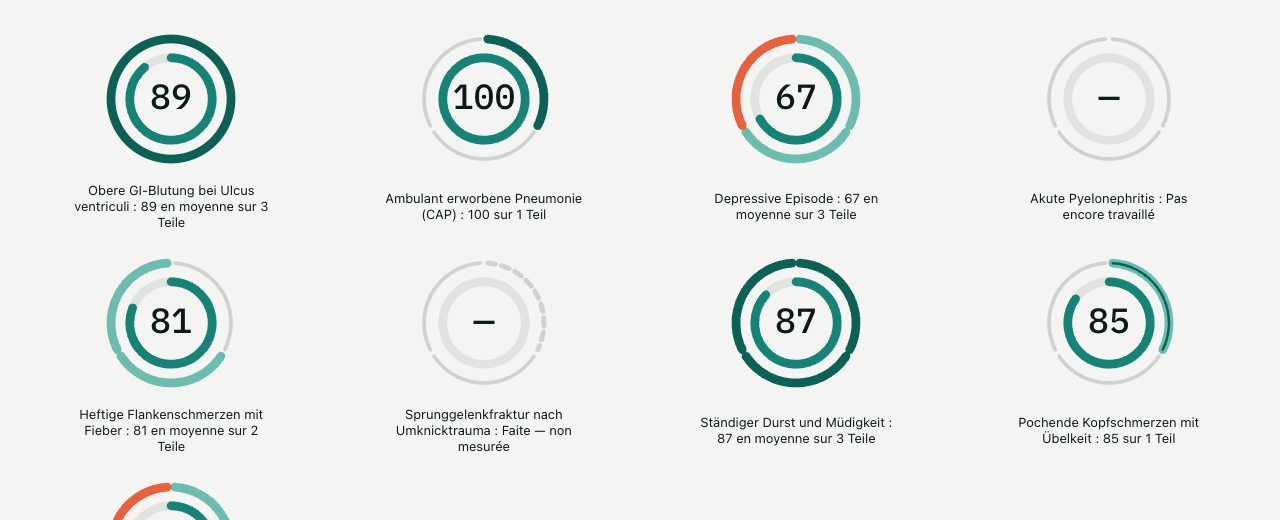
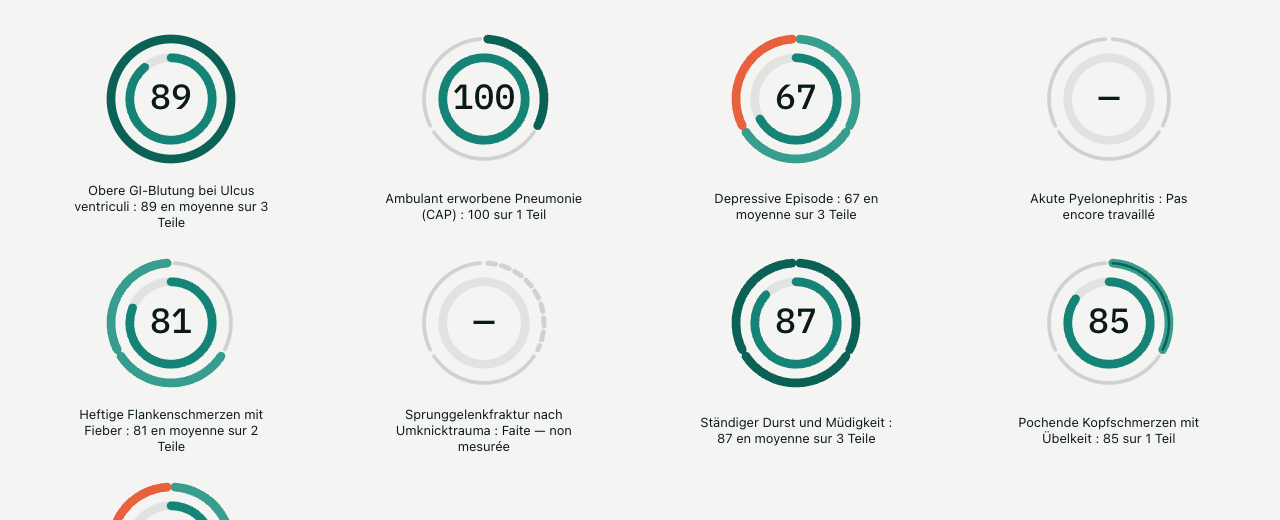
docs(s4-4): rapport mis à jour — décisions de main appliquées, planches recapturées

diff --git a/app/docs/reports/lead-s4-4.md b/app/docs/reports/lead-s4-4.md
@@ -1,12 +1,12 @@
 # S4-4 — le cadran `CaseDial` (rapport de tâche)
 
-Branche `feat/s4-4-cadran` (base `origin/main` @ `f99364e1`). Statut : **DONE_WITH_CONCERNS** (trois points à trancher, voir plus bas).
+Branche `feat/s4-4-cadran` (base `origin/main` @ `f99364e1`). Statut : **DONE_WITH_CONCERNS** (le seul point resté ouvert : voir « À trancher »). Les trois points de la première version ont été tranchés par `main` le 5 oct. et appliqués.
 
 ## Livré
 | Fichier | Rôle |
 |---|---|
-| `app/src/components/CaseDial.tsx` | la primitive : SVG (anneau intérieur = maîtrise, extérieur = trois arcs), ouverture, détail flottant, `CaseDialDetail` exporté |
-| `app/src/components/CaseDialText.ts` | tous les mots, dérivés de `CaseDialData` seul |
+| `app/src/components/visuals/CaseDial.tsx` | la primitive : SVG (anneau intérieur = maîtrise, extérieur = trois arcs), ouverture, détail flottant, `CaseDialDetail` exporté |
+| `app/src/components/visuals/CaseDialText.ts` | tous les mots, dérivés de `CaseDialData` seul |
 | `app/src/styles/index.css` (bloc `.case-dial`) | variables de couleur, mouvement sous `no-preference` seulement |
 | `app/src/features/cases/dialCarte.ts` | montage carte : « joué depuis la dernière visite », visite par compte |
 | `app/src/features/cases/CasesPage.tsx` | `CaseCard` : le cadran 64 remplace `TeilDots` (les pastilles ne doublonnent plus) |
@@ -14,7 +14,7 @@ Branche `feat/s4-4-cadran` (base `origin/main` @ `f99364e1`). Statut : **DONE_WI
 API : `<CaseDial data size={36|64|96|160} nom? vientDeSouder? action? />`. `CaseDialDetail` est exporté pour S4-3 (pré-simulation : détail déjà ouvert ; fin de partie : `vientDEtreJoue` fait dessiner l'arc, `vientDeSouder` soude l'anneau). Le lien d'action pointe `/simulation/:id/pre?teil=…` (le paramètre existe déjà).
 
 ## Décisions d'implémentation (hypothèses surfacées)
-- **Emplacement.** Le contrat §12.7 dit `components/visuals/` (règle B de `motionSafe.test.ts`), le brief dit `components/CaseDial*`. J'ai suivi le brief et me suis appliqué la règle B : aucune classe `transition-*`/`animate-*` Tailwind, le mouvement vit dans `index.css` sous `@media (prefers-reduced-motion: no-preference)` ET est coupé côté JS.
+- **Emplacement.** Le brief disait `components/CaseDial*`, le contrat §12.7 `components/visuals/`. Décision de main (5 oct.) : `components/visuals/` ; fichiers déplacés (commit dédié), la règle B de `motionSafe.test.ts` s'applique et passe (aucune classe `transition-*`/`animate-*` Tailwind ; le mouvement vit dans `index.css` sous `no-preference` ET est coupé côté JS).
 - **« À confirmer »** = `acquis` ∧ `solideDes ≤ aujourd'hui` (§13.2). Rendu : même couleur qu'« acquis », plus un **fil pétrole** de 2 unités sur l'arc (et sur la pastille du détail) ; dit « acquis, à confirmer » dans l'étiquette.
 - **Faite — non mesurée** : arc neutre en pointillé. **Soudé** : un seul cercle (pas trois arcs bout à bout, qui laisseraient des coutures) ; il ne s'écarte pas à l'ouverture.
 - **Mouvement réduit, « panneau »** : interprété comme le même détail en verre, sans fondu ni élévation, sans grossissement ni écart des arcs (`data-panneau`). Pas de tiroir latéral.
@@ -30,7 +30,7 @@ API : `<CaseDial data size={36|64|96|160} nom? vientDeSouder? action? />`. `Case
 | Commande | Sortie |
 |---|---|
 | `tsc -b --noEmit` | 0 |
-| `vitest run --dir src --maxWorkers=2` | 0 (153 fichiers, 1 422 tests) |
+| `vitest run --dir src --maxWorkers=2` | 0 (153 fichiers, 1 423 tests, rejoué après déplacement et changement de couleur) |
 | `npm run test:c6` | 0 (6 fichiers, 59 tests) |
 | `npm run build` (env du Supabase local) | 0 |
 | `check*.mjs` de la CI (15 + `checkTermRegister --require-all` + `evalDoctopus --dry`), dont `checkUiTells` | 0 |
@@ -38,6 +38,7 @@ API : `<CaseDial data size={36|64|96|160} nom? vientDeSouder? action? />`. `Case
 
 ## Vérification navigateur
 `vite preview` du build de **ce** worktree (port 4477, `index.html` servi identique à `dist/`), Supabase local de main (jamais arrêté, pas de `db:reset`), `playwright-cli` headless. Les `case_progress` de 8 cas ont été écrits dans l'IndexedDB de la session de test (vierge, entamé, couvert, solide, prêt soudé, à confirmer, acquis à date future, non mesurée), puis les `liveQuery` réveillées ; les mesures ci-dessous sont lues dans le DOM de l'app.
+- (Mesures prises avant le changement de couleur et le déplacement de fichiers ; le comportement n'a pas changé, tests et build rejoués après.)
 - Étiquettes rendues, ex. : `Heftige Flankenschmerzen… : 81 en moyenne sur 2 Teile. Anamnese : pas encore travaillé. Dokumentation : acquis, 82, hier. …`
 - Survol souris : détail ouvert 346 ms après `pointerover` (300 ms + rendu, machine à charge 15-28) ; `transform` du svg `matrix(1.14…)`, groupes d'arcs `translate(4.33, -2.5)`, `(0, 5)`, `(-4.33, -2.5)`. Se referme en quittant.
 - Texte lu dans le détail : « Solide si tu refais 80 ou plus à partir du jeudi 8 oct. » ; « Pour souder l'anneau : rejoue le cas en Autonome et avec la grille de langue remplie. » ; « Prochaine reprise : lundi 12 oct. »
@@ -50,10 +51,13 @@ API : `<CaseDial data size={36|64|96|160} nom? vientDeSouder? action? />`. `Case
 `s4-4-liste-1280-clair-ferme.png` · `…-clair-ouvert.png` · `…-sombre-ferme.png` · `…-sombre-ouvert.png` · `…-clair-ouvert-mouvement-reduit.png` · `s4-4-liste-390-clair-ferme.png` · `…-390-clair-ouvert.png` · `…-390-sombre-ferme.png` · `…-390-sombre-ouvert.png` · `s4-4-planche-etats-clair.png` · `s4-4-planche-etats-sombre.png`. Les deux planches (clones SVG agrandis des cadrans rendus, une par état) sont aussi commitées dans `app/docs/reports/`.
 Chemin complet : `/private/tmp/claude-501/-Users-MehdiBoukari-Downloads-FSP-VB-Claude-FSP/fab928bf-94b4-4f3f-b28b-69e62e6e776f/scratchpad/s4-4/`.
 
-## À trancher (DONE_WITH_CONCERNS)
-1. **Contraste de « acquis » en clair : 2,0:1 sur le papier** (`#6bbdb0` sur `#f4f5f2`), sous les 3:1 des éléments graphiques (WCAG 1.4.11). La couleur n'est jamais seule (étiquette, détail, chiffre), mais l'arc seul est faible. Je n'ai pas changé la palette validée par la direction. Proposition : `brand-400` `#379e8f` en clair (2,98 sur papier, 3,26 sur blanc, déjà la valeur sombre). Fragile : 3,09 ; solide : 6,7 ; sombre : tout ≥ 5,1. Le « vierge » (1,4:1 clair) est volontairement discret.
-2. **Chemin contractuel** : amender §12.7 (`components/CaseDial.tsx`, hors `visuals/`) ou déplacer le fichier.
-3. **Détail « en panneau » en mouvement réduit** : lecture sobre retenue (voir plus haut). À confirmer par la direction.
+## Décisions de main appliquées (5 oct.)
+1. **Contraste de « acquis » en clair** : `--cd-acquis` passe de `#6bbdb0` (2,0:1) à `#379e8f` (2,98:1 sur le papier, 3,26:1 sur blanc), par la variable ; sombre inchangé. Lu dans le DOM : `stroke: rgb(55, 158, 143)` en clair et en sombre. Test : la variable est dans `:root`, le composant ne code aucune couleur. Planches d'états recapturées (commitées). Les captures 390/1280 de la section précédente ont été prises AVANT ce changement, seul l'arc « acquis » en clair diffère.
+2. **Chemin** : `components/visuals/` (voir plus haut).
+3. **Mouvement réduit** : le détail en verre, immobile, est retenu.
+
+## À trancher
+Rien de bloquant. Le « vierge » reste volontairement discret (1,4:1 en clair), il n'est jamais un signal d'erreur.
 
 ## Non vérifié
 - **`checkFixedOverlays.mjs` n'existe pas sur `origin/main`** (fichier non suivi dans le dépôt de Mehdi). Exécuté sur une copie : **aucune violation dans mes fichiers** (le détail du cadran porte son `<Portal>`). Il signale 10 autres manquements préexistants : `features/cases/CasePreviewPanel.tsx:23-24`, `features/fachbegriffe/{CaseTermsPanel,DeckSheet,SrsSettingsSheet}.tsx` et `.reveal`/`.stagger` dans `styles/index.css` — des fichiers que Mehdi modifie en ce moment dans l'arbre principal ; je n'y ai pas touché.
